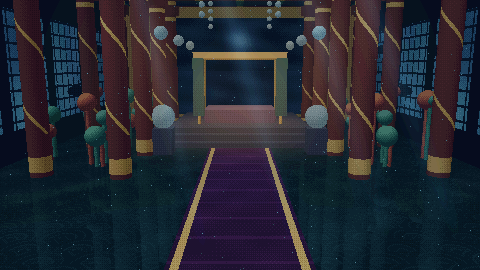
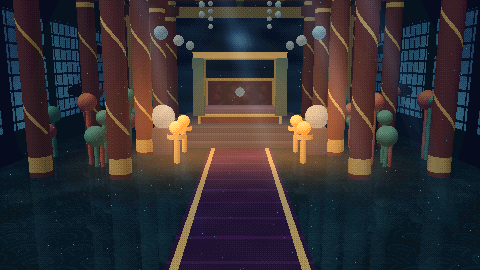
art(intro): 용왕 누운 자세 전용 스프라이트·침상/헤드보드/화로 개선

Changed region(s): [[0.1875, 0.1481, 0.8125, 0.6815], [0.3438, 0.1481, 0.375, 0.1778]]

diff --git a/art/intro_king.py b/art/intro_king.py
@@ -1,0 +1,184 @@
+"""용왕이 병석에 누운 모습 — 인트로 샷 2~3 의 전용 스프라이트 (80x36, 옆모습).
+
+옛 구현은 서 있는 NPC 시트(npc_dragonking)를 -90° 로 돌려 썼다 → 회전 픽셀이 뭉개지고 머리·팔·관이 엉뚱한 곳에 붙었다.
+여기서는 '침상에 누운 사람' 을 처음부터 그린다: 왼쪽 끝 베개에 머리(얼굴은 카메라 쪽으로 살짝 돌림),
+용뿔·금 머리띠, 가슴 위로 흐르는 흰 수염, 침구를 덮은 몸(어깨→배→무릎→발 순으로 낮아지는 둔덕), 이불 앞자락이 침상 앞으로 드리워짐,
+카메라 쪽 팔은 이불 위에 올려 손에 용인(龍印)을 쥠.
+Output: src/assets/intro/intro_king.png  (좌표계: x 0 = 머리 쪽, 침상 윗면 = y 27)
+"""
+import pathlib
+import numpy as np
+from PIL import Image
+
+OUT = pathlib.Path(__file__).parent.parent / 'src' / 'assets' / 'intro'
+W, H = 80, 36
+TOP = 27          # 침상 윗면 높이(몸이 닿는 선)
+HAND = (47, 17)   # 용패를 쥔 손 (스프라이트 좌표)
+
+
+def hx(h):
+    h = h.lstrip('#'); return tuple(int(h[i:i + 2], 16) for i in (0, 2, 4)) + (255,)
+
+
+img = np.zeros((H, W, 4), np.uint8)
+
+
+def put(x, y, c):
+    if 0 <= x < W and 0 <= y < H:
+        img[y, x] = c
+
+
+def fill(mask, shader):
+    ys, xs = np.nonzero(mask)
+    for y, x in zip(ys, xs):
+        put(x, y, shader(x, y))
+
+
+YY, XX = np.mgrid[0:H, 0:W]
+
+
+def ell(cx, cy, rx, ry):
+    return ((XX - cx) / rx) ** 2 + ((YY - cy) / ry) ** 2 <= 1.0
+
+
+# ---- 1. 베개 (비단, 금 술)
+pil = ell(12, 22.5, 12, 5.2) & (YY <= TOP)
+fill(pil, lambda x, y: hx('#a9c0c4') if y < 20 else hx('#7e9aa2') if y < 24 else hx('#566e7a'))
+for x in range(2, 24):        # 윗선 하이라이트
+    if pil[19, x] or pil[18, x]:
+        put(x, 18 if pil[18, x] else 19, hx('#d4e4e4'))
+for y in (22, 24):            # 베개 수놓은 금실
+    for x in range(4, 22, 2):
+        if pil[y, x]: put(x, y, hx('#c8a050'))
+for (x, y) in ((1, 24), (1, 25), (1, 26), (0, 26)):   # 술
+    put(x, y, hx('#d8b45a'))
+
+# ---- 2. 몸(이불) — 어깨에서 발끝으로 낮아지는 둔덕
+def body_top(x):
+    if x < 22: return 99
+    pts = [(22, 17), (28, 15.2), (36, 15.4), (46, 17.6), (54, 19.4), (60, 18.6), (66, 20.4), (74, 22.4), (77, 25)]
+    for (x0, y0), (x1, y1) in zip(pts, pts[1:]):
+        if x0 <= x <= x1:
+            return y0 + (y1 - y0) * (x - x0) / (x1 - x0)
+    return 99
+
+top = np.vectorize(body_top)(XX)
+body = (YY >= top) & (YY <= TOP + 3) & (XX >= 22) & (XX <= 77)
+# 이불: 청록 바탕, 금 테두리, 물결 수
+def quilt(x, y):
+    t = top[y, x]
+    d = y - t
+    base = hx('#2c6a74') if d < 2 else hx('#235a66') if d < 6 else hx('#1b4854')
+    if y >= TOP:     # 앞으로 드리운 이불 앞자락
+        base = hx('#17404c') if y < TOP + 2 else hx('#0f2e3a')
+        if y == TOP + 3: base = hx('#c8a050')
+        return base
+    # 수놓은 물결(청해파): 비스듬한 반원 줄
+    if ((x * 2 + y * 3) % 11 == 0) and d > 2: base = hx('#4a949a')
+    if ((x + (y // 3) * 4) % 13 == 0) and d > 3 and y % 3 == 1: base = hx('#d0a850')
+    if d < 1: base = hx('#7ab8b4')   # 능선 하이라이트
+    return base
+fill(body, quilt)
+for x in range(22, 78):           # 이불 앞자락 금 테두리(지그재그 단)
+    if body[TOP + 2, x] and (x % 4 in (0, 1)): put(x, TOP + 3, hx('#e0bc60'))
+    elif body[TOP + 2, x]: put(x, TOP + 3, hx('#8a6a28'))
+for x in range(22, 78):           # 이불과 몸 사이 금실 띠
+    y = int(top[TOP, x]) + 6
+    if y < TOP and body[y, x] and x % 2 == 0: put(x, y, hx('#b89040'))
+# 발끝 (이불 끝이 솟음)
+fill(ell(76, 24.5, 3, 3) & (XX >= 74), lambda x, y: hx('#2c6a74') if y < 25 else hx('#235a66'))
+
+# ---- 3. 수염 — 턱에서 가슴 위로 흐름
+beard_len = 24
+for k in range(beard_len):
+    x = 16 + k
+    t = k / beard_len
+    ytop = 18 + 2.2 * np.sin(t * 3.0) + t * 1.6
+    wid = int(5 - 4 * t) + 1
+    for j in range(wid):
+        y = int(ytop + j)
+        c = hx('#f0f2f4') if j == 0 else hx('#d0d6dc') if j < wid - 1 else hx('#9aa6b4')
+        if (k + j) % 5 == 2: c = hx('#b4bec8')    # 올 무늬
+        put(x, y, c)
+# 콧수염 / 구레나룻
+for (x, y) in ((11, 19), (12, 19), (13, 20), (14, 20), (15, 20)):
+    put(x, y, hx('#e6eaee'))
+
+# ---- 4. 머리 — 얼굴을 카메라 쪽(아래)으로 살짝 돌림
+head = ell(10.5, 16.5, 6.2, 6.0)
+fill(head, lambda x, y: hx('#d8c4a8') if (x - 10) < 2 and y < 17 else hx('#bda88c') if y < 19 else hx('#98846c'))
+# 윤곽 아래쪽 그림자
+for x in range(6, 16):
+    if head[21, x]: put(x, 21, hx('#6c5a4a'))
+# 흰 머리·상투 틀어올린 머리카락 (베개 위로 흩어짐)
+hair = ell(6.0, 14.0, 5.0, 4.6) & ~ell(11.5, 17.5, 4.6, 4.8)
+fill(hair, lambda x, y: hx('#e8ecf0') if y < 13 else hx('#b4bcc8'))
+# 눈(감음), 눈썹, 코 그림자, 입
+for (x, y, c) in ((11, 16, '#5a4a3e'), (12, 16, '#4a3a2e'),   # 눈 감음
+                  (11, 15, '#dcdfe2'), (12, 15, '#dcdfe2'), (13, 15, '#dcdfe2'),   # 흰 눈썹
+                  (14, 17, '#8e7862'), (14, 18, '#8e7862'),                         # 코
+                  (12, 20, '#7a4a44'), (13, 20, '#7a4a44'),                         # 입
+                  (9, 18, '#9a8068'), (10, 19, '#9a8068')):                          # 병색 그늘
+    put(x, y, hx(c))
+for (x, y) in ((11, 17), (12, 17), (13, 17)):   # 병색: 눈 밑 그늘
+    put(x, y, hx('#86706a'))
+# 금 머리띠 + 가운데 진주
+for x in range(5, 14):
+    y = 12 + int((x - 9) ** 2 / 14)
+    put(x, y, hx('#e0bc60') if x % 2 else hx('#a68030'))
+put(9, 11, hx('#d8f0ec')); put(9, 10, hx('#8ac0c4'))
+def line(p0, p1, c, c2=None):
+    n = max(abs(p1[0] - p0[0]), abs(p1[1] - p0[1]), 1)
+    for i in range(n + 1):
+        x = round(p0[0] + (p1[0] - p0[0]) * i / n); y = round(p0[1] + (p1[1] - p0[1]) * i / n)
+        put(x, y, c)
+        if c2: put(x, y + 1, c2)
+
+# ---- 5. 어깨 옷깃 (붉은 비단, 금 단)
+col = (XX >= 17) & (XX <= 27) & (YY >= 16) & (YY <= 26) & (YY >= 24 - (XX - 17) * 0.1 - 7 + 0) & ~head
+col &= ((XX - 22) / 6.4) ** 2 + ((YY - 21.5) / 5.6) ** 2 <= 1
+fill(col, lambda x, y: hx('#8a2e36') if y < 20 else hx('#6a2028') if y < 24 else hx('#4a141c'))
+for y in range(16, 27):
+    for x in range(17, 28):
+        if col[y, x] and (x + y) % 3 == 0 and y > 19: put(x, y, hx('#c8a050'))
+# 수염이 옷깃 위로 (다시 덮음)
+for k in range(2, 10):
+    x = 16 + k; ytop = 18 + 2.2 * np.sin(k / beard_len * 3.0) + k / beard_len * 1.6
+    for j in range(max(1, int(5 - 4 * k / beard_len) + 1)):
+        put(x, int(ytop + j), hx('#f0f2f4') if j == 0 else hx('#d0d6dc'))
+
+# ---- 6. 팔 — 카메라 쪽 팔이 이불 위에 얹힘, 손에 용인
+sleeve = ((XX - 38) / 12.0) ** 2 + ((YY - 18.2) / 3.0) ** 2 <= 1
+sleeve &= (XX >= 29) & (XX <= 48)
+fill(sleeve, lambda x, y: hx('#4a68a8') if y < 17 else hx('#3a528a') if y < 19 else hx('#26386a'))
+for x in range(30, 48):   # 소매 위 금실
+    ys = np.nonzero(sleeve[:, x])[0]
+    if len(ys) and x % 3 == 0: put(x, ys[0] + 1, hx('#d4b058'))
+hand = ell(47.5, 17.4, 2.6, 2.1)
+fill(hand, lambda x, y: hx('#d8c4a8') if y < 18 else hx('#a8947a'))
+for (x, y) in ((46, 16), (47, 16), (48, 16), (49, 17)): put(x, y, hx('#e8d6bc'))
+# 손가락 사이 용인의 금빛 눈물방울이 반쯤 보임
+for (x, y, c) in ((49, 18, '#f0d070'), (50, 18, '#c89830'), (49, 19, '#f8e898'), (50, 19, '#a87820')):
+    put(x, y, hx(c))
+
+# ---- 7. 외곽선: 알파 경계를 짙은 색으로
+a = img[..., 3] > 0
+edge = a & ~(np.roll(a, 1, 0) & np.roll(a, -1, 0) & np.roll(a, 1, 1) & np.roll(a, -1, 1))
+for y, x in zip(*np.nonzero(edge)):
+    r, g, b, _ = img[y, x]
+    img[y, x] = (int(r * 0.42), int(g * 0.42), int(b * 0.46), 255)
+# 용뿔 (외곽선 뒤에 그려 밝은 색 유지)
+HORN, HORN2, HORN_D = hx('#d89a58'), hx('#f0c880'), hx('#8a5430')
+line((8, 11), (5, 6), HORN, HORN_D); line((5, 6), (2, 2), HORN2, HORN)
+line((5, 6), (7, 3), HORN); line((6, 8), (3, 8), HORN_D); line((3, 8), (1, 6), HORN)
+line((10, 11), (13, 6), HORN, HORN_D); line((13, 6), (17, 3), HORN2, HORN); line((13, 6), (12, 3), HORN)
+
+# 침상 위에 닿는 그림자(몸 아래 1px)
+for x in range(2, 78):
+    if a[TOP + 3, x] or a[TOP + 2, x]:
+        pass
+
+if __name__ == '__main__':
+    OUT.mkdir(parents=True, exist_ok=True)
+    Image.fromarray(img).save(OUT / 'intro_king.png')
+    print('intro_king.png', img.shape, 'hand', HAND)

diff --git a/art/intro_hall3d.py b/art/intro_hall3d.py
@@ -40,6 +40,8 @@ RAMPS = {
     'coral2':  ramp('#04100e', '#0a2420', '#123c36', '#1e5a4e', '#34806c', '#5aa890'),
     'carpet':  ramp('#0c0614', '#180a26', '#2a1238', '#401c50', '#5a2a66', '#7a4082'),
     'stone':   ramp('#05080e', '#0c121c', '#161e2c', '#222c3e', '#323e54', '#46546c'),
+    'flame':   ramp('#5a2a10', '#a8541c', '#e8902c', '#ffd070', '#fff0b0'),
+    'board':   ramp('#0c0610', '#1c0c18', '#2c1420', '#40202c', '#583040'),
     'pearl':   ramp('#1e2c38', '#344e5e', '#527684', '#7a9ea6', '#a6c6c8', '#cce4e0'),
 }
 FOG = hx('#071426')
@@ -81,6 +83,7 @@ def _plane(o, d, axis, v, sign):
 
 PILLARS = [(sx * 3.3, z) for z in (4.8, 7.6, 10.4, 13.2) for sx in (-1, 1)] + [(sx * 5.6, z) for z in (5.0, 9.0, 13.0) for sx in (-1, 1)]
 CORALS = [(sx * 4.4, z, int(z * 3)) for z in (6.2, 9.0, 12.0) for sx in (-1, 1)] + [(sx * 6.4, z, int(z * 5)) for z in (7.0, 11.0) for sx in (-1, 1)]
+BRAZIERS = [(sx * 2.0, z) for z in (6.4, 8.0) for sx in (-1, 1)]
 LANTERNS = [(sx * 2.1, 3.9, z) for z in (5.0, 8.0, 11.0) for sx in (-1, 1)]
 
 
@@ -112,8 +115,14 @@ def scene(o, d, depth=0):
         lo, hi = (-hw, 0.0, z0), (hw, y, 14.6)
         t = _box(o, d, lo, hi)
         take(t, 'dais', lambda p, lo=lo, hi=hi: _box_normal(p, lo, hi))
-    lo, hi = (-1.5, 0.66, 10.6), (1.5, 1.25, 12.8)
+    lo, hi = (-1.62, 0.66, 10.6), (1.62, 1.0, 12.8)           # lacquered bed frame
+    take(_box(o, d, lo, hi), 'pillar', lambda p: _box_normal(p, lo, hi))
+    lo, hi = (-1.66, 0.94, 10.56), (1.66, 1.04, 12.84)       # gold trim round the frame
+    take(_box(o, d, lo, hi), 'gold', lambda p: _box_normal(p, lo, hi))
+    lo, hi = (-1.54, 1.0, 10.7), (1.54, 1.25, 12.7)          # mattress
     take(_box(o, d, lo, hi), 'bed', lambda p: _box_normal(p, lo, hi))
+    lo, hi = (-1.62, 1.04, 12.7), (1.62, 2.5, 12.86)           # carved head-board: gives the lying king a lit backdrop
+    take(_box(o, d, lo, hi), 'board', lambda p: _box_normal(p, lo, hi))
     for (px, pz) in ((-1.7, 10.4), (1.7, 10.4), (-1.7, 13.0), (1.7, 13.0)):
         take(_cyl(o, d, px, pz, 0.07, 0.66, 3.4), 'gold', lambda p, px=px, pz=pz: np.stack([p[:, 0] - px, np.zeros(len(p)), p[:, 2] - pz], -1) / 0.07)
     lo, hi = (-1.9, 3.35, 10.2), (1.9, 3.6, 13.2)
@@ -138,6 +147,10 @@ def scene(o, d, depth=0):
         for j in range(6):
             c = np.array([sx, 5.9 - j * 0.28, z])
             take(_sph(o, d, c, 0.09), 'pearl', lambda p, c=c: (p - c) / 0.09)
+    for (bx, bz) in BRAZIERS:      # bronze braziers burning pearl-oil: the warm accents flanking the way to the bed
+        take(_cyl(o, d, bx, bz, 0.09, 0, 0.8), 'gold', lambda p, bx=bx, bz=bz: np.stack([p[:, 0] - bx, np.zeros(len(p)), p[:, 2] - bz], -1) / 0.09)
+        take(_cyl(o, d, bx, bz, 0.3, 0.8, 0.95), 'gold', lambda p, bx=bx, bz=bz: np.stack([p[:, 0] - bx, np.zeros(len(p)), p[:, 2] - bz], -1) / 0.3)
+        take(_sph(o, d, np.array([bx, 1.12, bz]), 0.22), 'flame', lambda p, c=np.array([bx, 1.12, bz]): (p - c) / 0.22)
     for (cx, cz) in PILLARS:       # bracket sets under the eaves
         take(_cyl(o, d, cx, cz, 0.44, 5.35, 5.8), 'dan_r', lambda p, cx=cx, cz=cz: np.stack([p[:, 0] - cx, np.zeros(len(p)), p[:, 2] - cz], -1) / 0.44)
     for (lx, ly, lz) in LANTERNS:
@@ -189,7 +202,7 @@ def shade(mat, p, nrm, d):
         mm = m[f]; mm[run] = 'carpet'; mm[edge] = 'gold'; m[f] = mm
         tone[np.where(f)[0][edge]] = 3.2
     f = m == 'floor'
-    for name, base, k in (('pillar', 2.0, 3.0), ('coral', 1.4, 3.4), ('coral2', 1.4, 3.4), ('stone', 1.4, 2.6), ('dan_r', 1.4, 2.4), ('dais', 1.4, 2.4), ('bed', 1.6, 2.8), ('drape', 1.2, 2.4), ('gold', 1.6, 3.2)):
+    for name, base, k in (('pillar', 2.0, 3.0), ('coral', 1.4, 3.4), ('coral2', 1.4, 3.4), ('stone', 1.4, 2.6), ('dan_r', 1.4, 2.4), ('dais', 1.4, 2.4), ('bed', 1.6, 2.8), ('drape', 1.2, 2.4), ('gold', 1.6, 3.2), ('board', 1.0, 1.0)):
         s = m == name
         tone[s] = base + lam[s] * k + glow[s] * 0.9
     s = m == 'pillar'
@@ -223,6 +236,16 @@ def shade(mat, p, nrm, d):
             fsh = ((z[la] - fz_) / 0.9) ** 2 + ((y[la] - fy_) / 0.22) ** 2 < 1
             tone[la] = np.where(fsh & win, 0.8, tone[la])
         mm = m[la]; mm[~win] = 'wall'; m[la] = mm
+    bd = m == 'board'
+    if bd.any():   # head-board: gold frame, a lacquer panel with a coiling-cloud lattice and a pearl in the middle
+        fr = (np.abs(x[bd]) > 1.5) | (y[bd] > 2.38) | (y[bd] < 1.14)
+        cloud = np.sin(x[bd] * 9.0 + np.sin(y[bd] * 7.0) * 1.3) * np.sin(y[bd] * 8.0 + 1.0)
+        pr = np.exp(-(x[bd] ** 2 + (y[bd] - 1.85) ** 2) / 0.05) * 4.0
+        tone[bd] = 1.2 + np.clip(cloud, 0, 1) * 1.1 + pr + glow[bd] * 0.9
+        mm = m[bd]; mm[fr] = 'gold'; mm[pr > 1.5] = 'pearl'; m[bd] = mm
+        tone[np.where(bd)[0][fr]] = 3.0
+    fl = m == 'flame'
+    tone[fl] = 2.2 + lam[fl] * 1.8
     pe = m == 'pearl'
     tone[pe] = 2.8 + lam[pe] * 1.6
     g = m == 'gold'
@@ -278,6 +301,9 @@ def render():
     c0 = np.array([0.0, 1.6, 11.0])    # warm lamplight over the sick-bed (the one warm note in the cold hall)
     dd2 = ((p - c0) ** 2).sum(-1)
     rgb += np.array([70, 40, 12]) * np.exp(-dd2 / 12.0)[:, None] * 0.95
+    for (bx, bz) in BRAZIERS:          # brazier firelight spilling on pillars and floor
+        db = ((p - np.array([bx, 1.1, bz])) ** 2).sum(-1)
+        rgb += np.array([90, 46, 12]) * np.exp(-db / 5.0)[:, None] * 0.8
     rng = np.random.default_rng(21)    # drifting motes baked as single bright pixels, brighter when nearer
     for _ in range(170):
         mx, my = rng.integers(0, W), rng.integers(0, H)
